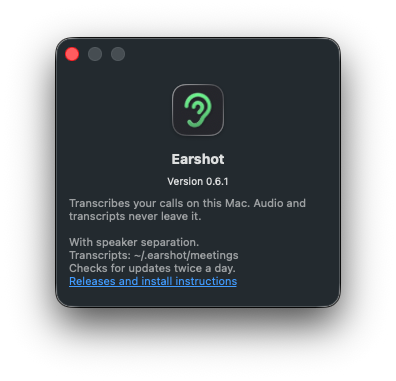
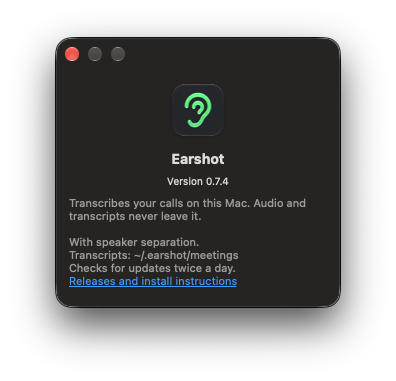
README: 0.7.4 (calls joined without a mic, speech model recommendation), new menu, About and phone screenshots

diff --git a/README.md b/README.md
@@ -7,7 +7,7 @@
 <p align="center">
   <b>Every call, transcribed on your own computer, and ready for your AI agent.</b><br>
   Earshot sits in your menu bar (or system tray), notices when a call starts in any app, and writes a clean transcript: you on one side, everyone else on the other. Nothing leaves your machine.<br>
-  New in 0.7: a phone app for <b>in-person meetings</b>, transcribed on the phone and sent to your computer over Bluetooth. Since 0.7.1 that works on Windows too, and since 0.7.2 you choose the phone's speech model at setup.
+  New in 0.7: a phone app for <b>in-person meetings</b>, transcribed on the phone and sent to your computer over Bluetooth (Mac and Windows). New in 0.7.4: browser calls you join <b>without your mic</b> are recorded too.
 </p>
 
 <p align="center">
@@ -35,7 +35,7 @@
 
 ## Why Earshot
 
-- **It just starts.** No calendar to connect and no bot joining the call. When Zoom, Teams, Meet or any other call app starts using your microphone, Earshot starts transcribing. When the call ends, it stops.
+- **It just starts.** No calendar to connect and no bot joining the call. When Zoom, Teams, Meet or any other call app starts using your microphone, Earshot starts transcribing. It also catches calls you join just to listen, with your mic off: Zoom's app, and Meet, Zoom, Teams and other call sites in the browser. When the call ends, it stops.
 - **It knows when you're muted.** Earshot reads the mute button in the call app. Whatever you say while muted stays out of the transcript.
 - **"Me" and "Them", always.** Your microphone and the call's audio are recorded separately, so every line is attributed correctly. The full edition also tells the other people apart.
 - **Built for agents.** A local MCP server lets Claude, Codex, Cursor or any other MCP client read, search and control your calls. Ask "what did we agree on in my 2pm?" and your agent has the transcript.
@@ -81,6 +81,7 @@ The first time it runs, Earshot asks for:
 | | Feature | |
 |---|---|---|
 | 🎙 | **Automatic start and stop** | Zoom, Teams, Google Meet, Slack huddles, FaceTime, Webex, Discord, WhatsApp, Telegram, Skype, RingCentral, and calls in Chrome, Edge, Arc, Brave, Firefox, Safari and other browsers. |
+| 🎧 | **Calls you only listen to** (Mac) | Joined without your mic? Zoom's app is caught by its meeting window (with Accessibility on). In the browser, the Chrome extension sees the call on Google Meet, Zoom, Teams, Slack, Webex, Whereby and Jitsi, and on any site you add under **Always Record Calls On** in the menu. Your mic stays off until the call turns it on. |
 | 🔇 | **Mute awareness** | Reads the call app's mute button. On web calls, the Chrome extension also checks whether the page is actually sending your audio. Muted speech is left out. |
 | 👥 | **Speaker separation** (Full) | NVIDIA's Sortformer model on Mac and a speaker-embedding model on Windows turn "Them" into Speaker 1, 2, 3…, entirely on your computer. Rename speakers from your agent. |
 | 🏷 | **Names and titles** (Mac) | With Accessibility on, Earshot takes the meeting topic, the participant list and who's talking from Zoom and Google Meet captions. The transcript text is still Earshot's own. |
@@ -93,7 +94,7 @@ The first time it runs, Earshot asks for:
 | ⬆ | **One-click updates** | It offers new versions itself and installs them when you click. Never during a call. |
 
 <p align="center">
-  <img src="docs/menu.png" width="236" alt="The Earshot menu">
+  <img src="docs/menu.png" width="244" alt="The Earshot menu">
   &nbsp;&nbsp;&nbsp;
   <img src="docs/about.png" width="330" alt="About Earshot">
 </p>
@@ -106,7 +107,7 @@ Earshot on your computer hears calls. For meetings in a room, put your phone on 
   <img src="docs/phone.png" width="760" alt="The Earshot phone app: ready to record, transcribing, settings, and dark mode">
 </p>
 
-- **Transcribed on the phone, your choice of model.** Before your first recording, the app asks how to turn speech into text: the speech recognition already built into the phone (Apple's on iPhone; Android's own, if the phone has its language installed), or NVIDIA Parakeet, a 136 MB download kept either in the phone's shared models (so our other apps can use the same copy, via [Garden](https://github.com/stefan814/garden)) or for Earshot only. You can change it later in Settings ▸ Speech model. Everything runs on the phone, and audio is never stored.
+- **Transcribed on the phone, your choice of model.** Before your first recording, the app asks how to turn speech into text: NVIDIA Parakeet, a 136 MB download kept either in the phone's shared models (so our other apps can use the same copy, via [Garden](https://github.com/stefan814/garden)) or for Earshot only, or the speech recognition already built into the phone (Apple's on iPhone; Android's own, if the phone has its language installed). The app recommends Parakeet in the shared models: in our tests it got about half as many words wrong as the built-in recognizers when people talk across a room (5–9% against 10–12%). The choice is yours, and you can change it later in Settings ▸ Speech model. Everything runs on the phone, and audio is never stored.
 - **Sent to your computer over Bluetooth.** On a Mac, open the Earshot menu ▸ **Pair a Phone (In-Person Meetings)…**; on Windows, the same item is in Earshot's tray menu. Scan the code it shows with the phone (in the app's Settings, tap **Pair with a computer**). After that, finished meetings go to the computer by themselves when the two are near each other, or when you tap Send. The phone deletes its copy once the computer confirms it has it. The transfer is encrypted with a key made at pairing. A phone pairs with one computer at a time.
 - **Knows your voice.** In Settings, **Teach my voice** has you read a short passage aloud. Your lines are then marked "Me", and other people become Speaker 1, 2, 3…. Only a voiceprint is kept.
 - **Record from anywhere.** A one-tap record button for the home screen (Android and iPhone), a Quick Settings tile (Android), and Lock Screen and Control Center buttons (iPhone). The button turns green while recording and yellow while the transcript is saved.
@@ -131,7 +132,8 @@ The phone apps only transcribe meetings in the room. Phones don't let other apps
 ## How it works
 
 ```
-  call app opens the mic ──► Earshot notices (within a second)
+  call app opens the mic, or a call's ──► Earshot notices (within a second)
+  meeting window or web page appears
                                    │
             ┌──────────────────────┴──────────────────────┐
      your microphone                                 the call's audio
@@ -149,7 +151,7 @@ The phone apps only transcribe meetings in the room. Phones don't let other apps
                     MCP server on 127.0.0.1:8796 ──► your AI agent
 ```
 
-A call ends when the call app stops using the microphone and speakers for 25 seconds, or when its meeting window closes. You can also start and stop by hand from the menu or through MCP.
+A call ends when the call app stops using the microphone and speakers for 25 seconds, or when its meeting window closes. In a browser it ends 25 seconds after the call does (the browser's mic, or the call the extension sees in the tab), even if the browser keeps playing sound. You can also start and stop by hand from the menu or through MCP.
 
 ## For AI agents (MCP)
 
